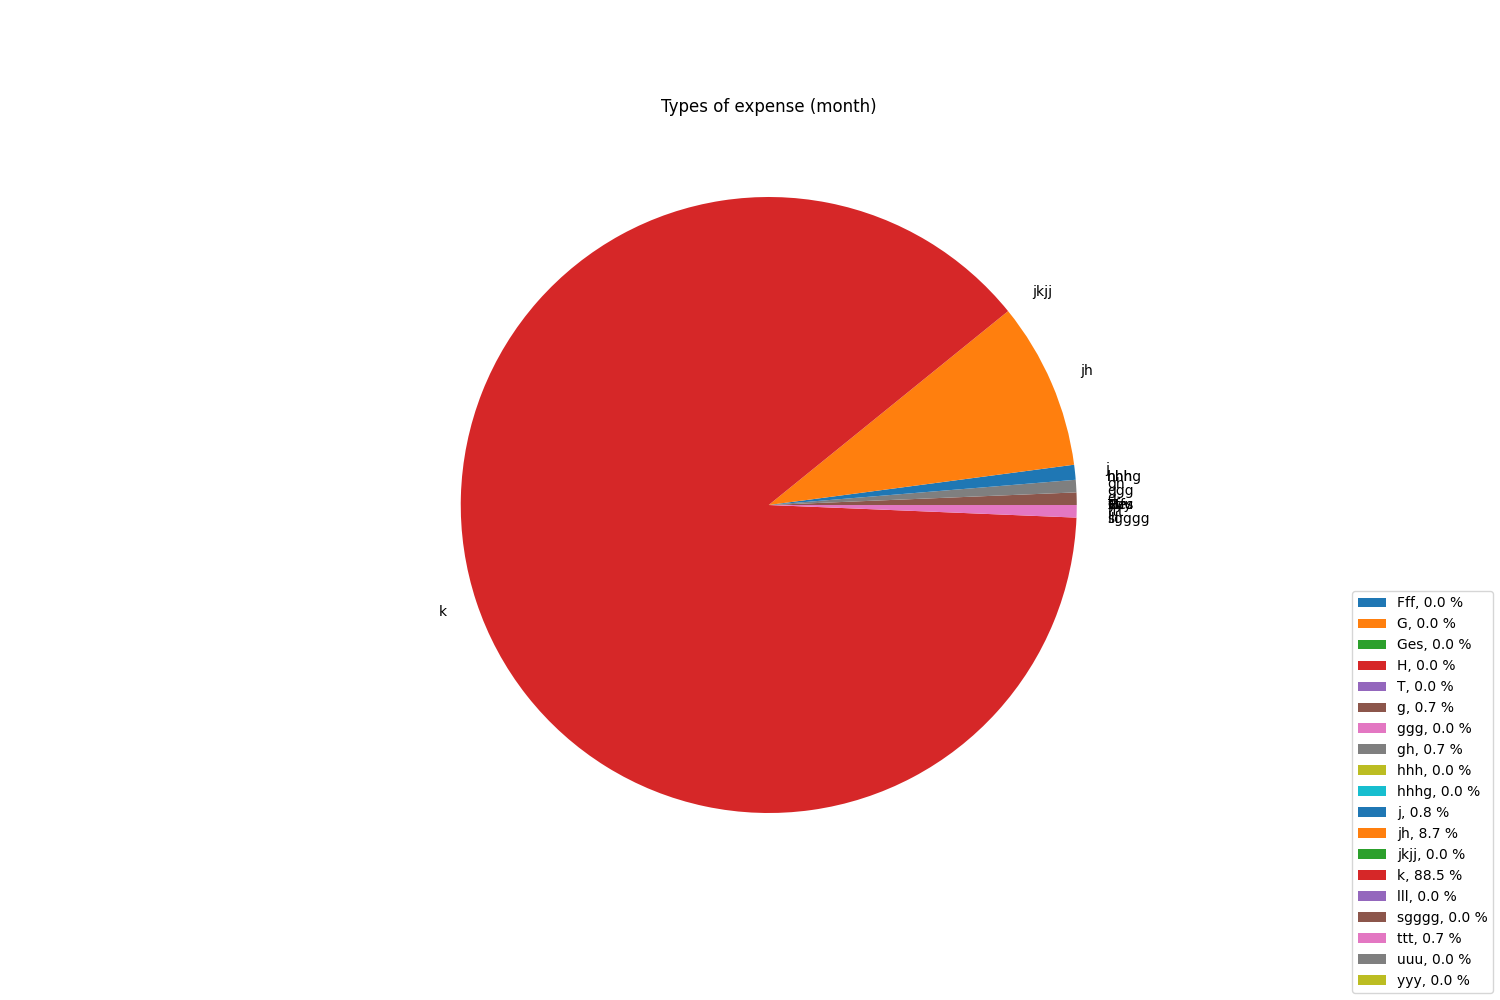
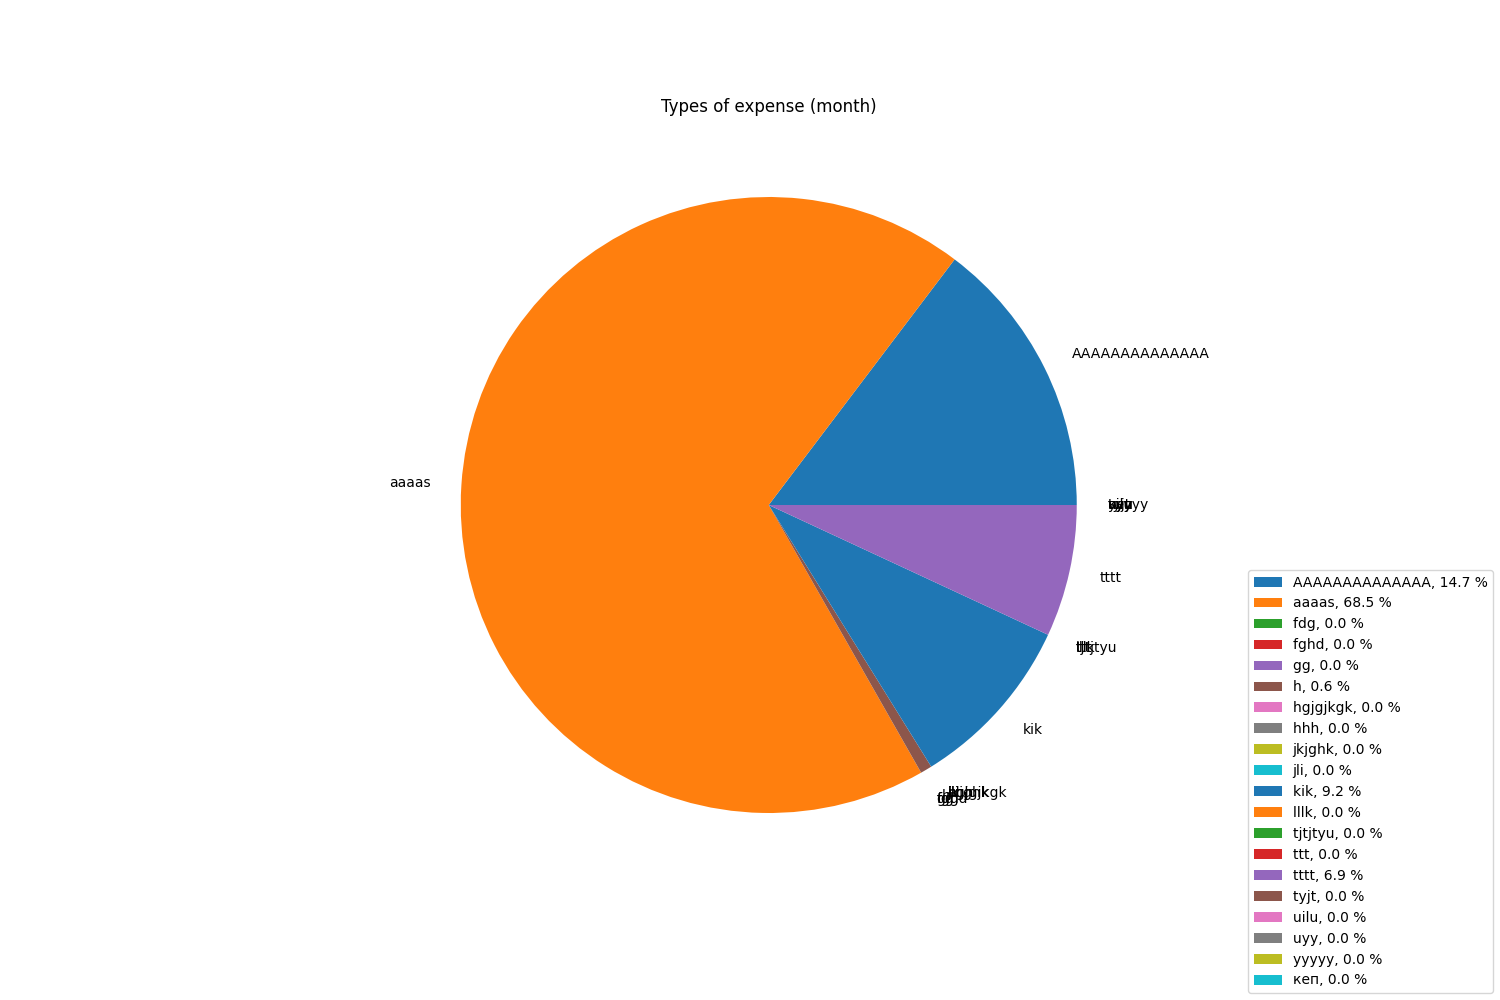
Fixed the plots problem

Changed region(s): [[0.3067, 0.186, 0.7973, 0.837], [0.828, 0.558, 1.0, 1.0]]

diff --git a/kazna_classes/plots_class.py b/kazna_classes/plots_class.py
@@ -1,75 +1,107 @@
+# Get the plot for 3 months of overal sum in euro, rub, dollar 
+# Get the plot for 1 month of overal sum in euro 
+# Get the plot for month of incomes level and expense level on the same plot
+# Get pie chart of types of income in euro
+# Get pie chart of types of expense in euro
 from db_connector import db_connector
 import pandas as pd
 import matplotlib.pyplot as plt
 import seaborn as sns
+import json
+from decimal import Decimal
+
+
 
 
 class Plots:
     def __init__(self, bot):
         self.bot = bot
+
+    def set_euro_value_for_expense(self, df):
+        # Custom JSON decoder to handle Decimal objects
+        def decimal_decoder(obj):
+            if isinstance(obj, str):
+                try:
+                    return Decimal(obj)
+                except ValueError:
+                    pass
+            return obj
+        try:
+            with open('exchange_rates.json', 'r') as file:
+                exchange_rates = json.load(file, object_hook=decimal_decoder)
+        except FileNotFoundError:
+            print("Exchange rates file not found.")
+        dol_list = ['cash_$_with_me', 'cash_$_not_with_me', 'card_$']
+        rub_list = ['cash_RUB_not_with_me', 'card_RUB', 'shares_RUB']
+        btc_list = ['bitcoin']
+
+        if df['Income_Expense_Column'] in dol_list:
+            return df['Expense'] / exchange_rates['euro_dollar']
+        if df['Income_Expense_Column'] in rub_list:
+            return df['Expense'] / exchange_rates['euro_rub']
+        if df['Income_Expense_Column'] in btc_list:
+            return df['Expense'] / exchange_rates['euro_bitc']
+        else:
+            return df['Expense'] 
+    
     def make_plots(self, MY_USER_ID):
-        df = db_connector.get_dataframe_query()
+        df = db_connector.get_three_months_dataframe_query()
         df.set_index('date', inplace=True, drop=False)
-        one_month_before = df.index.max() - pd.Timedelta(days=30)
-        one_month_before = str(one_month_before)
+        one_month_before = str(df.index.max() - pd.Timedelta(days=30))
         df_month = df[df.index > one_month_before ]
         df_month['Expense'] = df_month['Expense'].fillna(0)
 
-        #Create line plot of the overall assets sum in euro for all time
+        #Create line plot of the overall assets sum in euro for month
+        plt.figure(figsize = (15, 5))
+        plt.title('Overall assets sum in euro (3 months)')
+        sns.lineplot(data = df['overall_eur'], label ='overall sum in eur')
+        plt.xlabel('date')
+        plt.grid()
+        plt.savefig('overall_assets_sum_three_months.png')
+
+        #Create line plot of the overall assets sum in euro for month
         plt.figure(figsize = (15, 5))
         plt.title('Overall assets sum in euro (month)')
         sns.lineplot(data = df_month['overall_eur'], label ='overall sum in eur')
         plt.xlabel('date')
         plt.grid()
-        plt.savefig('eur_overall_assets_sum_month.png')
+        plt.savefig('overall_assets_sum_month.png')
 
-        #create the bar plot of all expenses
-        plt.figure(figsize = (15, 5))
-        plt.title('All expenses (month)')
-        sns.lineplot(data = df_month['Expense'])
-        plt.xlabel('date')
-        plt.grid()
-        plt.savefig('all_expenses_month.png')
-
-        #create the bar plot of all income 
-        plt.figure(figsize = (15, 5))
-        plt.title('All Income (month)')
-        sns.lineplot(data = df_month['Income'])
-        plt.xlabel('date')
-        plt.grid()
-        plt.savefig('all_incomess_month.png')
-        #plt.show()
-
-        #Create pie chart of type of expense
+        df_month["eq_expense"] = df_month.apply(self.set_euro_value_for_expense, axis = 1)
+        #Create pie chart of euro type of expense
         plt.figure(figsize = (15,10))
         plt.title('Types of expense (month)')
-        df_monthexppie = df_month[['Source','Expense']].groupby(['Source']).sum()
+        df_monthexppie = df_month
+        df_monthexppie = df_monthexppie[['Source','eq_expense']].groupby(['Source']).sum()
         print(df_monthexppie)
-        total_size = sum(df_monthexppie['Expense'])
-        percentages = [(size / total_size) * 100 for size in df_monthexppie['Expense']]
+        total_size = sum(df_monthexppie['eq_expense'])
+        percentages = [(size / total_size) * 100 for size in df_monthexppie['eq_expense']]
 
-        plt.pie(df_monthexppie['Expense'], labels = df_monthexppie.index, textprops={'fontsize': 10}) 
+        plt.pie(df_monthexppie['eq_expense'], labels = df_monthexppie.index, textprops={'fontsize': 10}) 
         labels = ['%s, %1.1f %%' % (l, s) for l, s in zip(df_monthexppie.index, percentages )]
         plt.legend(df_monthexppie.index, bbox_to_anchor=(1,0), loc="lower right", 
                                 bbox_transform=plt.gcf().transFigure, labels = labels)
         plt.savefig('expenses_types_month.png')
 
+        
+
         #Create pie chart of type of income
-        plt.figure(figsize = (15,10))
-        plt.title('Types of income (month)')
-        df_monthincpie = df_month[['Source','Income']].groupby(['Source']).sum()
-        total_size = sum(df_monthincpie['Income'])
-        percentages = [(size / total_size) * 100 for size in df_monthincpie['Income']]
-        plt.pie(df_monthincpie['Income'], labels = df_monthincpie.index, textprops={'fontsize': 10}) 
-        labels = ['%s, %1.1f %%' % (l, s) for l, s in zip(df_monthincpie.index, percentages )]
-        plt.legend(df_monthincpie.index, bbox_to_anchor=(1,0), loc="lower right", 
-                                bbox_transform=plt.gcf().transFigure, labels = labels)
-        plt.savefig('income_types_month.png')
+        #plt.figure(figsize = (15,10))
+        #plt.title('Types of income (month)')
+        #df_monthexppie = df_month.copy
+        #df_monthincpie = df_monthexppie[['Source','Income']].groupby(['Source']).sum()
+        #total_size = sum(df_monthincpie['Income'])
+        #percentages = [(size / total_size) * 100 for size in df_monthincpie['Income']]
+        #plt.pie(df_monthincpie['Income'], labels = df_monthincpie.index, textprops={'fontsize': 10}) 
+        #labels = ['%s, %1.1f %%' % (l, s) for l, s in zip(df_monthincpie.index, percentages )]
+        #plt.legend(df_monthincpie.index, bbox_to_anchor=(1,0), loc="lower right", 
+        #                        bbox_transform=plt.gcf().transFigure, labels = labels)
+        #plt.savefig('income_types_month.png')
 
         #Send charts in telegram 
-        self.bot.send_photo(MY_USER_ID , photo=open('eur_overall_assets_sum_month.png', 'rb'))
-        self.bot.send_photo(MY_USER_ID , photo=open('all_expenses_month.png', 'rb'))
-        self.bot.send_photo(MY_USER_ID , photo=open('all_incomess_month.png', 'rb'))
+        self.bot.send_photo(MY_USER_ID , photo=open('overall_assets_sum_three_months.png', 'rb'))
+        self.bot.send_photo(MY_USER_ID , photo=open('overall_assets_sum_month.png', 'rb'))
         self.bot.send_photo(MY_USER_ID , photo=open('expenses_types_month.png', 'rb'))
-        self.bot.send_photo(MY_USER_ID , photo=open('income_types_month.png', 'rb'))
+        #self.bot.send_photo(MY_USER_ID , photo=open('income_types_month.png', 'rb'))
+
        

diff --git a/kazna_classes/db_connector.py b/kazna_classes/db_connector.py
@@ -3,6 +3,8 @@ import pandas as pd
 import sqlalchemy
 from sqlalchemy import create_engine
 import pymysql
+from datetime import date
+from dateutil.relativedelta import relativedelta
 
 class db_connector:
     def __init__(self, bot):
@@ -16,6 +18,15 @@ class db_connector:
         df = pd.read_sql(query, engine)
         return df
     
+    def get_three_months_dataframe_query():
+        three_months = '\'' + str(date.today() - relativedelta(months =+3)) + '\''
+        con_string = 'mysql+pymysql://root:12345@mysql:3306/kazna_bot_mysql' #'mysql+pymysql://root:12345@127.0.0.1:3306/kazna_bot_mysql'
+        engine = create_engine(con_string)
+
+        query = 'SELECT date, Income, Expense, Income_Expense_Column, Source, overall_eur, overall_rub, overall_dol FROM kazna_mysql_table WHERE date >= ' + three_months + ';'
+        df = pd.read_sql(query, engine)
+        return df
+    
     def get_expense_dataframe_query():
         con_string = 'mysql+pymysql://root:12345@mysql:3306/kazna_bot_mysql'
         engine = create_engine(con_string)
@@ -23,3 +34,4 @@ class db_connector:
         query = 'SELECT date, Income, Expense, Source, cash_euro_with_me, cash_euro_not_with_me, cash_$_with_me, cash_$_not_with_me, card_euro, card_$, cash_RUB_not_with_me, card_RUB, bitcoin, shares_RUB, overall_eur, overall_rub, overall_dol FROM kazna_mysql_table WHERE Expense != \'NULL\';'
         df = pd.read_sql(query, engine)
         return df
+    

diff --git a/kazna_classes/mysql_connector.py b/kazna_classes/mysql_connector.py
@@ -32,11 +32,11 @@ class Mysql_connector:
         cursor.execute('(SELECT '+ str(column) + ' FROM kazna_mysql_table WHERE id ='+ str(id) + ');')
         if type == 'Income':
             target_column_value = str(cursor.fetchall()[0][0] + float(value))  
-            query_update = 'UPDATE kazna_mysql_table SET Income = '+ str(value) +', Source = \'' + str(source) + '\', ' + str(column) + '=' + target_column_value + ' WHERE id ='+ str(id) +';'
+            query_update = 'UPDATE kazna_mysql_table SET Income = '+ str(value) + ', Income_Expense_Column = \'' + str(column) + '\', Source = \'' + str(source) + '\', ' + str(column) + '=' + target_column_value + ' WHERE id ='+ str(id) +';'
             cursor.execute(query_update)
         elif type == 'Expense':
             target_column_value = str(cursor.fetchall()[0][0] - float(value))
-            query_update = 'UPDATE kazna_mysql_table SET Expense = '+ str(value) +', Source = \'' + str(source) + '\', ' + str(column) + '=' + target_column_value + ' WHERE id ='+ str(id) +';'
+            query_update = 'UPDATE kazna_mysql_table SET Expense = '+ str(value) + ', Income_Expense_Column = \'' + str(column) + '\', Source = \'' + str(source) + '\', ' + str(column) + '=' + target_column_value + ' WHERE id ='+ str(id) +';'
             cursor.execute(query_update)
         else:
             print('Function has wrong type parametr')

diff --git a/kazna_classes/income_expense_analysis.py b/kazna_classes/income_expense_analysis.py
@@ -3,6 +3,8 @@ import requests
 from mysql_connector import Mysql_connector
 from telebot import types
 from exch_rates_coingeko import Get_exchange_rates
+import json
+from decimal import Decimal
 
 class Income_expense_analysis:
     def __init__(self, bot):
@@ -24,10 +26,20 @@ class Income_expense_analysis:
         euro_dollar_value = cur_list[1]
         euro_rub_value = cur_list[2]
 
+        # Custom JSON encoder for Decimal objects
+        class DecimalEncoder(json.JSONEncoder):
+            def default(self, obj):
+                if isinstance(obj, Decimal):
+                    return str(obj)
+                return super(DecimalEncoder, self).default(obj)        
+
         data_dict = {
             link_euro_dollar :euro_dollar_value,
-            link_euro_bitc:euro_bitc_value,
-            link_euro_rub:euro_rub_value,}
+            link_euro_bitc : Decimal(euro_bitc_value),
+            link_euro_rub :euro_rub_value,}
+        
+        with open('exchange_rates.json', 'w') as file:
+            json.dump(data_dict, file, cls=DecimalEncoder)
             
         income_expense_info_list  = Mysql_connector.get_income_expense_info_query()
 

diff --git a/kazna_classes/try.py b/kazna_classes/try.py
@@ -1,0 +1,30 @@
+
+import pandas as pd
+import matplotlib.pyplot as plt
+import seaborn as sns
+import json
+from decimal import Decimal
+
+
+def set_euro_value_for_expense(df):
+    # Custom JSON decoder to handle Decimal objects
+    def decimal_decoder(obj):
+        if isinstance(obj, str):
+            try:
+                return Decimal(obj)
+            except ValueError:
+                pass
+        return obj
+    try:
+        with open('exchange_rates.json', 'r') as file:
+            exchange_rates = json.load(file, object_hook=decimal_decoder)
+    except FileNotFoundError:
+        print("Exchange rates file not found.")
+
+    if df['Income_Expense_Column'] in ['cash_$_with_me', 'cash_$_not_with_me', 'card_$']:
+         df['Expense'] = df['Expense'] / exchange_rates['euro_dollar']
+    if df['Income_Expense_Column'] in ['cash_RUB_not_with_me', 'card_RUB', 'shares_RUB']:
+         df['Expense'] = df['Expense'] / exchange_rates['euro_rub']
+    if df['Income_Expense_Column'] in ['bitcoin']:
+         df['Expense'] = df['Expense'] / exchange_rates['euro_bitc']
+    return df

diff --git a/kazna_classes/kaznabot_main.py b/kazna_classes/kaznabot_main.py
@@ -9,6 +9,7 @@ from Payable_subscriptions_class import Payable_subscriptions
 from mysql_connector import Mysql_connector
 from prediction_class import Prediction
 from plots_class import Plots
+from feature_toggles import *
 
 #Code bellow wil launch the telegram bot
 BOT_TOKEN = config("BOT_TOKEN")
@@ -77,7 +78,9 @@ def setup_income_expense_options(message):
     elif user_data == 'Overall assets estimation':
         Mysql_connector.get_last_overal_sum(mysql_connector, message)
         Plots.make_plots(plots, MY_USER_ID)
-        Prediction.make_week_prediction(prediction, MY_USER_ID)
+        #I use feature toggle to enable or disable ML prediction. It can be disabled for small servers.
+        if make_ml_prediction:
+            Prediction.make_week_prediction(prediction, MY_USER_ID)
 
         
 

diff --git a/kazna_classes/prediction_class.py b/kazna_classes/prediction_class.py
@@ -1,9 +1,9 @@
 from db_connector import db_connector
 import pandas as pd
 import numpy as np
-import xgboost as xgb
-from sklearn.metrics import mean_squared_error
-from sklearn.model_selection import TimeSeriesSplit
+#import xgboost as xgb
+#from sklearn.metrics import mean_squared_error
+#from sklearn.model_selection import TimeSeriesSplit
 from telebot import types
 import matplotlib.pyplot as plt
 

diff --git a/kazna_classes/feature_toggles.py b/kazna_classes/feature_toggles.py
@@ -1,0 +1,3 @@
+#File with feature toggles to enable or desable some functionality
+
+make_ml_prediction = False
